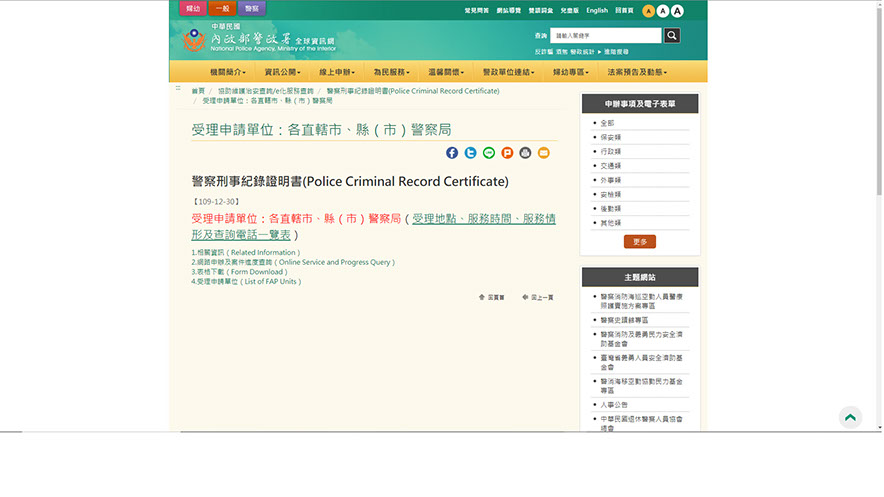
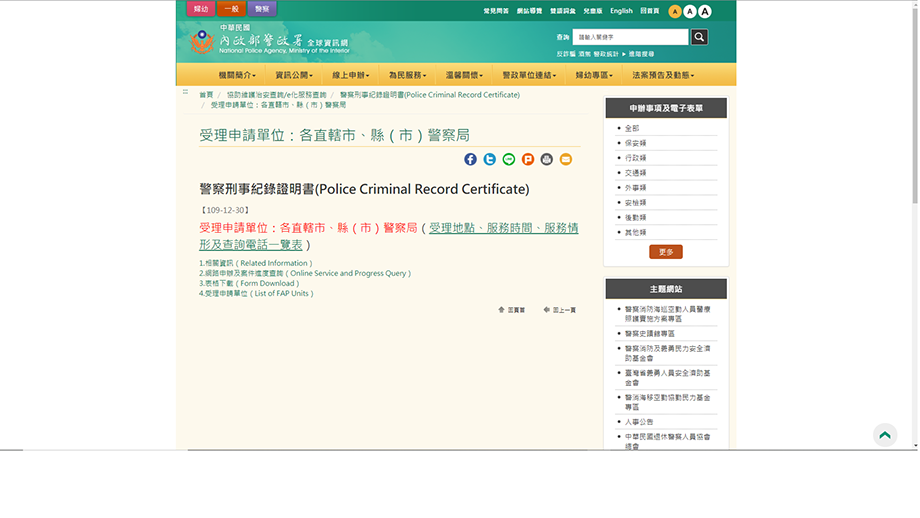
Summary

diff --git a/css/index.css b/css/index.css
@@ -1,1 +1,1 @@
-.version.index{color:#0000E5;background-color:#7C7943;}#page{z-index:1;min-height:376px;background-image:none;border-width:0px;border-color:#000000;background-color:transparent;padding-top:62px;padding-bottom:62px;width:100%;max-width:960px;margin-left:auto;margin-right:auto;}#u387-10{z-index:2;min-height:50px;background-color:transparent;text-align:center;color:#000000;position:relative;width:38.34%;margin-left:30.84%;}#u390{z-index:12;background-color:transparent;margin-top:25px;position:relative;width:73.96%;margin-left:13.03%;}#u397-15{z-index:14;min-height:122px;background-color:transparent;margin-top:25px;position:relative;width:73.96%;margin-left:13.03%;}#u400{z-index:29;background-color:transparent;position:relative;width:43.96%;margin-left:28.03%;}#u407-9{z-index:31;min-height:87px;background-color:transparent;text-align:center;margin-top:18px;position:relative;width:64.9%;margin-left:17.61%;}#u410{z-index:40;background-color:transparent;margin-top:18px;position:relative;width:43.96%;margin-left:28.03%;}#u417-23{z-index:42;min-height:138px;background-color:transparent;margin-top:5px;position:relative;width:52.71%;margin-left:23.65%;}#u420{z-index:65;background-color:transparent;margin-top:31px;position:relative;width:59.17%;margin-left:20.42%;}#u427-6{z-index:67;min-height:49px;background-color:transparent;text-align:center;color:#000000;margin-top:12px;position:relative;width:52.82%;margin-left:23.65%;}#u430{z-index:73;background-color:transparent;margin-top:12px;position:relative;width:73.65%;margin-left:13.23%;}#pu437-7{z-index:75;margin-top:7px;width:73.65%;margin-left:13.13%;}#u437-7{z-index:75;min-height:80px;background-color:transparent;position:relative;margin-right:-10000px;width:63.8%;left:18.11%;}#u417-16,#u437-4{text-align:center;color:#000000;font-weight:bold;}#u440{z-index:82;background-color:transparent;position:relative;margin-right:-10000px;margin-top:69px;width:100%;}#u447-7{z-index:84;min-height:84px;background-color:transparent;margin-top:9px;position:relative;width:37.3%;margin-left:31.36%;}#u450{z-index:91;background-color:transparent;margin-top:14px;position:relative;width:75.42%;margin-left:12.3%;}#u457-41{z-index:93;min-height:119px;background-color:transparent;margin-top:14px;position:relative;width:48.44%;margin-left:25.73%;}#u397-2,#u397-4,#u397-6,#u397-8,#u397-10,#u397-12,#u417-2,#u417-4,#u417-6,#u417-8,#u417-10,#u417-12,#u417-14,#u417-18,#u417-20,#u437-2,#u447-2,#u447-4,#u457-38{text-align:center;color:#000000;}#u460{z-index:134;background-color:transparent;margin-top:23px;position:relative;width:92.3%;margin-left:3.86%;}#u467-6{z-index:136;min-height:38px;background-color:transparent;text-align:center;color:#000000;margin-top:23px;position:relative;width:33.75%;margin-left:33.13%;}#u387-2,#u387-6,#u427-4,#u467-4{font-weight:bold;}#u470{z-index:142;border-width:0px;border-color:transparent;background-color:transparent;max-width:100000px;min-width:10px;margin-top:15px;position:relative;width:53.44%;margin-left:23.23%;}#u475-30{z-index:143;min-height:101px;background-color:transparent;color:#000000;margin-top:35px;position:relative;width:61.67%;margin-left:20.11%;}#u475-10{text-align:center;font-weight:bold;}#u475-2,#u475-4,#u475-6,#u475-8,#u475-12,#u475-14,#u475-16,#u475-18,#u475-20,#u475-22,#u475-27{text-align:center;}#u478{z-index:173;background-color:transparent;margin-top:24px;position:relative;width:67.71%;margin-left:16.15%;}#u390_img,#u400_img,#u410_img,#u420_img,#u430_img,#u440_img,#u450_img,#u460_img,#u478_img{width:100%;}#u485-121{z-index:175;min-height:88px;background-color:transparent;text-align:center;margin-top:19px;position:relative;width:57.61%;margin-left:22.19%;}#u457-8,#u485-4,#u485-41,#u485-53,#u485-63,#u485-79,#u485-89,#u485-99,#u485-105{color:#000000;font-weight:bold;}#u407-2,#u407-4,#u407-6,#u457-2,#u457-4,#u457-6,#u457-10,#u457-12,#u457-14,#u457-16,#u457-18,#u457-20,#u457-22,#u457-24,#u457-26,#u457-28,#u457-30,#u457-32,#u457-34,#u457-36,#u475-24,#u485-2,#u485-5,#u485-8,#u485-10,#u485-13,#u485-15,#u485-18,#u485-20,#u485-23,#u485-25,#u485-28,#u485-31,#u485-33,#u485-35,#u485-37,#u485-39,#u485-43,#u485-45,#u485-47,#u485-49,#u485-51,#u485-55,#u485-57,#u485-59,#u485-61,#u485-65,#u485-67,#u485-69,#u485-71,#u485-73,#u485-75,#u485-77,#u485-81,#u485-83,#u485-85,#u485-87,#u485-91,#u485-93,#u485-95,#u485-97,#u485-101,#u485-103,#u485-107,#u485-109,#u485-111,#u485-113,#u485-115,#u485-117,#u485-119{color:#000000;}#u488{z-index:296;border-width:0px;border-color:transparent;background-color:transparent;max-width:100000px;min-width:10px;margin-top:14px;position:relative;width:53.44%;margin-left:24.28%;}#u470 .fluid_height_spacer,#u488 .fluid_height_spacer{padding-bottom:62.37816764132553%;}.css_verticalspacer .verticalspacer{height:calc(100vh - 7887px);}#muse_css_mq,.html{background-color:#FFFFFF;}body{position:relative;min-width:320px;}
+.version.index{color:#00001D;background-color:#CE864B;}#page{z-index:1;min-height:376px;background-image:none;border-width:0px;border-color:#000000;background-color:transparent;padding-top:62px;padding-bottom:62px;width:100%;max-width:960px;margin-left:auto;margin-right:auto;}#u387-10{z-index:2;min-height:50px;background-color:transparent;text-align:center;color:#000000;position:relative;width:95.84%;margin-left:2.09%;}#u390{z-index:12;background-color:transparent;margin-top:25px;position:relative;width:73.96%;margin-left:13.03%;}#u397-15{z-index:14;min-height:122px;background-color:transparent;margin-top:25px;position:relative;width:95.84%;margin-left:2.09%;}#u400{z-index:29;background-color:transparent;position:relative;width:43.96%;margin-left:28.03%;}#u407-9{z-index:31;min-height:87px;background-color:transparent;text-align:center;margin-top:18px;position:relative;width:95.84%;margin-left:2.09%;}#u410{z-index:40;background-color:transparent;margin-top:18px;position:relative;width:43.96%;margin-left:28.03%;}#u417-23{z-index:42;min-height:138px;background-color:transparent;margin-top:35px;position:relative;width:95.84%;margin-left:2.09%;}#u420{z-index:65;background-color:transparent;margin-top:35px;position:relative;width:59.17%;margin-left:20.42%;}#u427-6{z-index:67;min-height:49px;background-color:transparent;text-align:center;color:#000000;margin-top:12px;position:relative;width:95.84%;margin-left:2.09%;}#u430{z-index:73;background-color:transparent;margin-top:14px;position:relative;width:73.65%;margin-left:13.23%;}#u437-7{z-index:75;min-height:52px;background-color:transparent;margin-top:22px;position:relative;width:68.23%;margin-left:15.84%;}#u440{z-index:82;background-color:transparent;margin-top:23px;position:relative;width:73.65%;margin-left:13.13%;}#u447-7{z-index:84;min-height:87px;background-color:transparent;margin-top:17px;position:relative;width:37.3%;margin-left:31.36%;}#u450{z-index:91;background-color:transparent;margin-top:17px;position:relative;width:75.42%;margin-left:12.3%;}#u457-41{z-index:93;min-height:119px;background-color:transparent;margin-top:2px;position:relative;width:60.42%;margin-left:19.8%;}#u417-16,#u437-4,#u457-8{text-align:center;color:#000000;font-weight:bold;}#u397-2,#u397-4,#u397-6,#u397-8,#u397-10,#u397-12,#u417-2,#u417-4,#u417-6,#u417-8,#u417-10,#u417-12,#u417-14,#u417-18,#u417-20,#u437-2,#u447-2,#u447-4,#u457-2,#u457-4,#u457-6,#u457-10,#u457-12,#u457-14,#u457-16,#u457-18,#u457-20,#u457-22,#u457-24,#u457-26,#u457-28,#u457-30,#u457-32,#u457-34,#u457-36,#u457-38{text-align:center;color:#000000;}#u460{z-index:134;background-color:transparent;margin-top:3px;position:relative;width:92.3%;margin-left:3.86%;}#u467-6{z-index:136;min-height:38px;background-color:transparent;text-align:center;color:#000000;margin-top:23px;position:relative;width:33.75%;margin-left:33.13%;}#u387-2,#u387-6,#u427-4,#u467-4{font-weight:bold;}#u470{z-index:142;border-width:0px;border-color:transparent;background-color:transparent;max-width:100000px;min-width:10px;margin-top:15px;position:relative;width:53.44%;margin-left:23.23%;}#u475-30{z-index:143;min-height:101px;background-color:transparent;color:#000000;margin-top:35px;position:relative;width:61.67%;margin-left:20.11%;}#u475-10{text-align:center;font-weight:bold;}#u475-2,#u475-4,#u475-6,#u475-8,#u475-12,#u475-14,#u475-16,#u475-18,#u475-20,#u475-22,#u475-27{text-align:center;}#u475-24{color:#0000FF;}#u478{z-index:173;background-color:transparent;margin-top:24px;position:relative;width:67.71%;margin-left:16.15%;}#u390_img,#u400_img,#u410_img,#u420_img,#u430_img,#u440_img,#u450_img,#u460_img,#u478_img{width:100%;}#u485-121{z-index:175;min-height:88px;background-color:transparent;text-align:center;margin-top:19px;position:relative;width:95.84%;margin-left:2.09%;}#u485-4,#u485-41,#u485-53,#u485-63,#u485-79,#u485-89,#u485-99,#u485-105{color:#000000;font-weight:bold;}#u407-2,#u407-4,#u407-6,#u485-2,#u485-5,#u485-8,#u485-10,#u485-13,#u485-15,#u485-18,#u485-20,#u485-23,#u485-25,#u485-28,#u485-31,#u485-33,#u485-35,#u485-37,#u485-39,#u485-43,#u485-45,#u485-47,#u485-49,#u485-51,#u485-55,#u485-57,#u485-59,#u485-61,#u485-65,#u485-67,#u485-69,#u485-71,#u485-73,#u485-75,#u485-77,#u485-81,#u485-83,#u485-85,#u485-87,#u485-91,#u485-93,#u485-95,#u485-97,#u485-101,#u485-103,#u485-107,#u485-109,#u485-111,#u485-113,#u485-115,#u485-117,#u485-119{color:#000000;}#u488{z-index:296;border-width:0px;border-color:transparent;background-color:transparent;max-width:100000px;min-width:10px;margin-top:22px;position:relative;width:53.44%;margin-left:23.23%;}#u470 .fluid_height_spacer,#u488 .fluid_height_spacer{padding-bottom:62.37816764132553%;}.css_verticalspacer .verticalspacer{height:calc(100vh - 7725px);}#muse_css_mq,.html{background-color:#FFFFFF;}body{position:relative;min-width:320px;}

diff --git a/index.html b/index.html
@@ -17,7 +17,7 @@ if(typeof Muse == "undefined") window.Muse = {}; window.Muse.assets = {"required
   <title>熊貓外送申請懶人包</title>
   <!-- CSS -->
   <link rel="stylesheet" type="text/css" href="css/site_global.css?crc=444006867"/>
-  <link rel="stylesheet" type="text/css" href="css/index.css?crc=3850139971" id="pagesheet"/>
+  <link rel="stylesheet" type="text/css" href="css/index.css?crc=500074059" id="pagesheet"/>
     <!--HTML Widget code-->
   <style type="text/css">#u470.size_fluid_width_height iframe { position:absolute; left:0; top:0; }</style><style type="text/css">#u488.size_fluid_width_height iframe { position:absolute; left:0; top:0; }</style>
  </head>
@@ -76,15 +76,13 @@ if(typeof Muse == "undefined") window.Muse = {}; window.Muse.assets = {"required
    <div class="clip_frame colelem" id="u430"><!-- image -->
     <img class="block" id="u430_img" src="images/5.jpg?crc=505713525" alt="" data-heightwidthratio="0.4158415841584158" data-image-width="707" data-image-height="294"/>
    </div>
-   <div class="clearfix colelem" id="pu437-7"><!-- group -->
-    <div class="clearfix grpelem" id="u437-7" data-muse-temp-textContainer-sizePolicy="true" data-muse-temp-textContainer-pinning="true"><!-- content -->
-     <p id="u437-2">________________________________________</p>
-     <p id="u437-4">如果你想預約其他時段，可以點擊下方的【SHOW MORE】，就會顯示出更多可以預約的日期。</p>
-     <p>&nbsp;</p>
-    </div>
-    <div class="clip_frame grpelem" id="u440"><!-- image -->
-     <img class="block" id="u440_img" src="images/6.jpg?crc=31850698" alt="" data-heightwidthratio="0.6364922206506365" data-image-width="707" data-image-height="450"/>
-    </div>
+   <div class="clearfix colelem" id="u437-7" data-muse-temp-textContainer-sizePolicy="true" data-muse-temp-textContainer-pinning="true"><!-- content -->
+    <p id="u437-2">________________________________________</p>
+    <p id="u437-4">如果你想預約其他時段，可以點擊下方的【SHOW MORE】，就會顯示出更多可以預約的日期。</p>
+    <p>&nbsp;</p>
+   </div>
+   <div class="clip_frame colelem" id="u440"><!-- image -->
+    <img class="block" id="u440_img" src="images/6.jpg?crc=31850698" alt="" data-heightwidthratio="0.6364922206506365" data-image-width="707" data-image-height="450"/>
    </div>
    <div class="clearfix colelem" id="u447-7" data-muse-temp-textContainer-sizePolicy="true" data-muse-temp-textContainer-pinning="true"><!-- content -->
     <p id="u447-2">________________________________</p>
@@ -207,7 +205,7 @@ if(typeof Muse == "undefined") window.Muse = {}; window.Muse.assets = {"required
 <iframe class="actAsDiv" style="width:100%;height:100%;" src="//www.youtube.com/embed/nqvW1MYdzBk?autoplay=0&loop=0&showinfo=0&theme=dark&color=red&controls=1&modestbranding=0&start=0&fs=1&iv_load_policy=1&wmode=transparent&rel=1" frameborder="0" allowfullscreen></iframe>
 
    </div>
-   <div class="verticalspacer" data-offset-top="7825" data-content-above-spacer="7825" data-content-below-spacer="62" data-sizePolicy="fixed" data-pintopage="page_fixedLeft"></div>
+   <div class="verticalspacer" data-offset-top="7663" data-content-above-spacer="7663" data-content-below-spacer="62" data-sizePolicy="fixed" data-pintopage="page_fixedLeft"></div>
   </div>
   <!-- Other scripts -->
   <script type="text/javascript">

diff --git a/css/_______.css b/css/_______.css
@@ -1,1 +1,1 @@
-.version.________{color:#0000F9;background-color:#A8068C;}#page{z-index:1;min-height:406px;background-image:none;border-width:0px;border-color:#000000;background-color:transparent;padding-top:32px;padding-bottom:62px;width:100%;max-width:960px;margin-left:auto;margin-right:auto;}#u308-10{z-index:2;min-height:23px;background-color:transparent;text-align:center;position:relative;width:47.3%;margin-left:26.36%;}#u339{z-index:12;background-color:transparent;margin-top:10px;position:relative;width:92.09%;margin-left:2.09%;}#u356-7{z-index:14;min-height:56px;background-color:transparent;margin-top:10px;position:relative;width:39.9%;margin-left:30%;}#u356-2,#u356-4{text-align:center;}#u359{z-index:21;background-color:transparent;margin-top:10px;position:relative;width:95.84%;margin-left:2.09%;}#u339_img,#u359_img{width:100%;}#u369-4{z-index:23;min-height:52px;background-color:transparent;text-align:center;margin-top:17px;position:relative;width:44.69%;margin-left:27.61%;}.css_verticalspacer .verticalspacer{height:calc(100vh - 1244px);}#muse_css_mq,.html{background-color:#FFFFFF;}body{position:relative;min-width:320px;}
+.version.________{color:#00001A;background-color:#B448B7;}#page{z-index:1;min-height:406px;background-image:none;border-width:0px;border-color:#000000;background-color:transparent;padding-top:32px;padding-bottom:62px;width:100%;max-width:960px;margin-left:auto;margin-right:auto;}#u308-10{z-index:2;min-height:23px;background-color:transparent;text-align:center;position:relative;width:47.3%;margin-left:26.36%;}#u339{z-index:12;background-color:transparent;margin-top:7px;position:relative;width:95.84%;margin-left:2.09%;}#u356-7{z-index:14;min-height:56px;background-color:transparent;margin-top:7px;position:relative;width:39.9%;margin-left:30%;}#u356-2,#u356-4{text-align:center;}#u359{z-index:21;background-color:transparent;margin-top:7px;position:relative;width:95.84%;margin-left:2.09%;}#u339_img,#u359_img{width:100%;}#u369-4{z-index:23;min-height:52px;background-color:transparent;text-align:center;margin-top:13px;position:relative;width:44.69%;margin-left:27.61%;}.css_verticalspacer .verticalspacer{height:calc(100vh - 1252px);}#muse_css_mq,.html{background-color:#FFFFFF;}body{position:relative;min-width:320px;}

diff --git a/良民證申請教學.html b/良民證申請教學.html
@@ -17,7 +17,7 @@ if(typeof Muse == "undefined") window.Muse = {}; window.Muse.assets = {"required
   <title>良民證申請教學 </title>
   <!-- CSS -->
   <link rel="stylesheet" type="text/css" href="css/site_global.css?crc=444006867"/>
-  <link rel="stylesheet" type="text/css" href="css/_______.css?crc=4188538508" id="pagesheet"/>
+  <link rel="stylesheet" type="text/css" href="css/_______.css?crc=448022711" id="pagesheet"/>
    </head>
  <body>
 
@@ -29,7 +29,7 @@ if(typeof Muse == "undefined") window.Muse = {}; window.Muse.assets = {"required
     <p>會看到以下網站</p>
    </div>
    <div class="clip_frame colelem" id="u339"><!-- image -->
-    <img class="block" id="u339_img" src="images/%e6%9c%aa%e5%91%bd%e5%90%8d3.jpg?crc=4006687080" alt="" data-heightwidthratio="0.5622171945701357" data-image-width="884" data-image-height="497"/>
+    <img class="block" id="u339_img" src="images/%e6%9c%aa%e5%91%bd%e5%90%8d3.jpg?crc=3975997723" alt="" data-heightwidthratio="0.5630434782608695" data-image-width="920" data-image-height="518"/>
    </div>
    <div class="clearfix colelem" id="u356-7" data-muse-temp-textContainer-sizePolicy="true" data-muse-temp-textContainer-pinning="true"><!-- content -->
     <p id="u356-2">再點擊(受理地點、服務時間、服務情形 及查詢電話一覽表)</p>
@@ -42,7 +42,7 @@ if(typeof Muse == "undefined") window.Muse = {}; window.Muse.assets = {"required
    <div class="clearfix colelem" id="u369-4" data-muse-temp-textContainer-sizePolicy="true" data-muse-temp-textContainer-pinning="true"><!-- content -->
     <p>再從裡面找出距離自己最近並且能申請的地點即可</p>
    </div>
-   <div class="verticalspacer" data-offset-top="1182" data-content-above-spacer="1182" data-content-below-spacer="62" data-sizePolicy="fixed" data-pintopage="page_fixedLeft"></div>
+   <div class="verticalspacer" data-offset-top="1190" data-content-above-spacer="1190" data-content-below-spacer="62" data-sizePolicy="fixed" data-pintopage="page_fixedLeft"></div>
   </div>
   <!-- Other scripts -->
   <script type="text/javascript">
